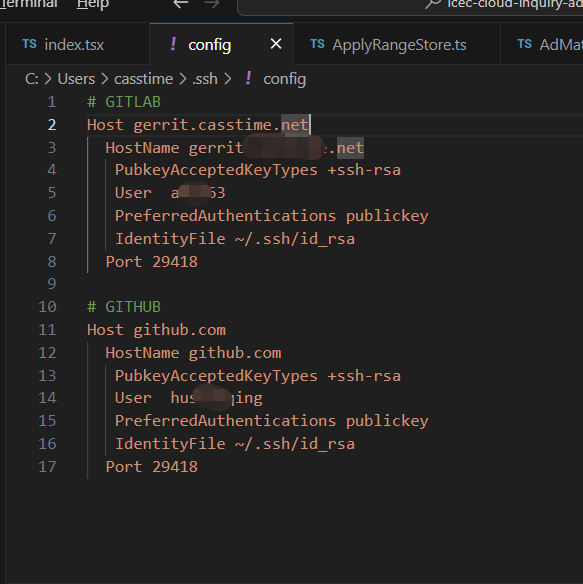
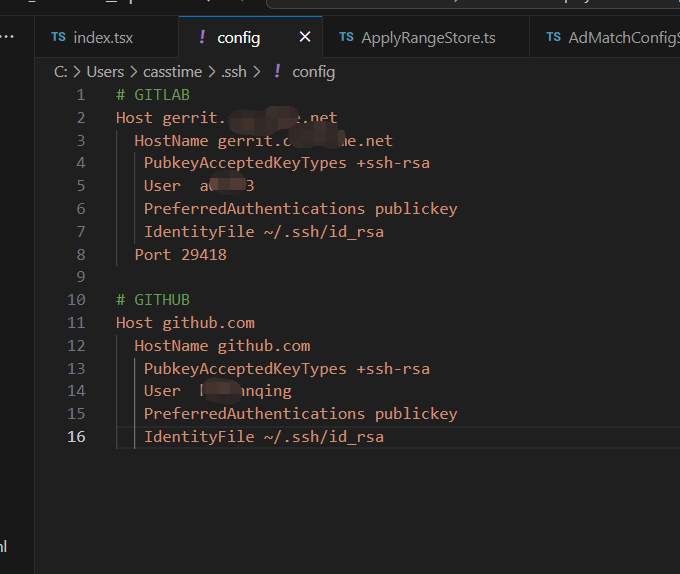
feat: 添加问题文档的图片

diff --git a/docs/config-quations/Permission denied (publickey).md b/docs/config-quations/Permission denied (publickey).md
@@ -8,7 +8,8 @@ and the repository exists.
 解决：
 1、在.ssh文件夹下创建config文件，没用后缀名
 2、往config文件里配置
-```
+
+```bash
 # GERRIT
 Host gerrit仓库域名
   HostName errit仓库域名
@@ -19,4 +20,5 @@ Host gerrit仓库域名
   Port 29418
 
 ```
+
 ![效果图](1_Permission denied (publickey).png)
